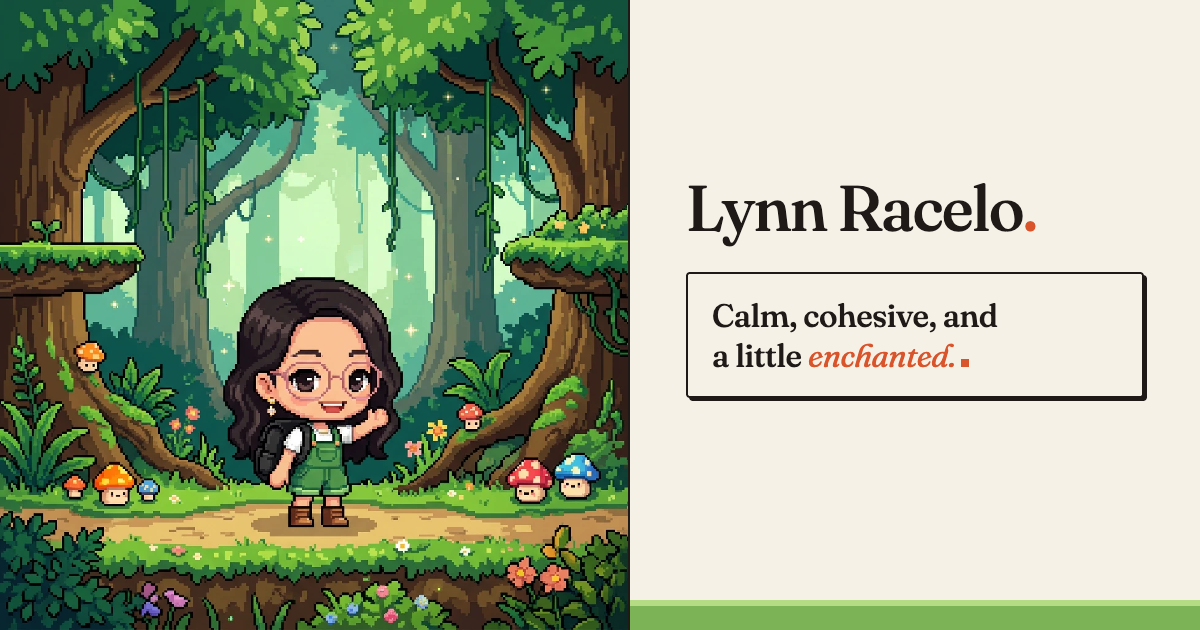
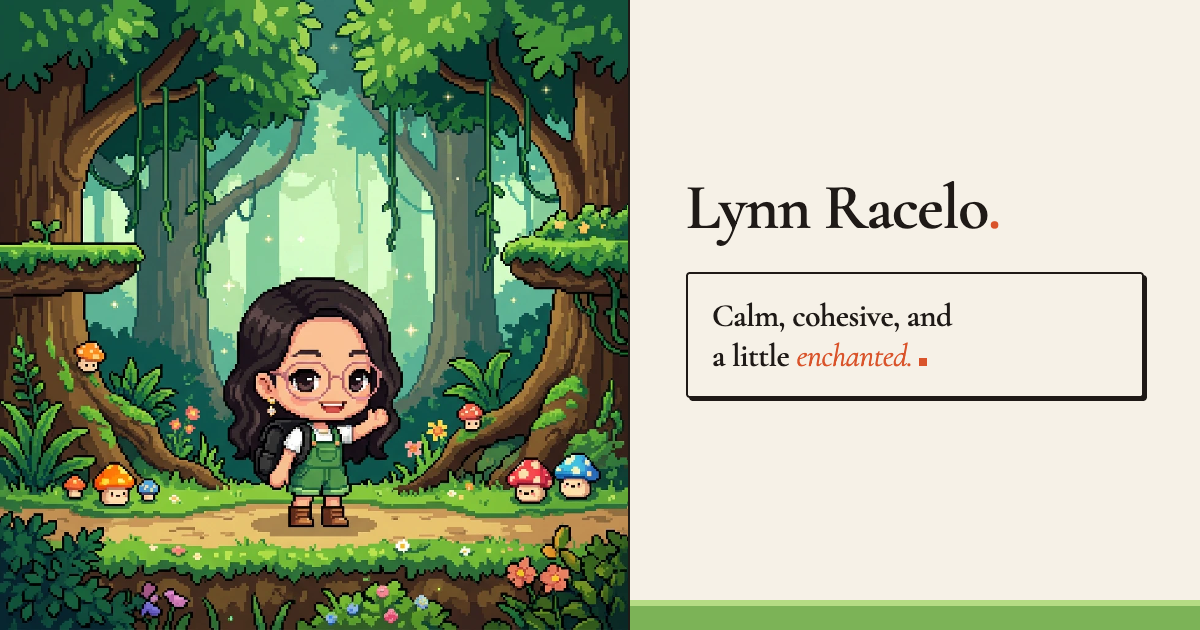
Serif is now Cormorant Garamond 600; homepage quote in three lines

Changed region(s): [[0.555, 0.2714, 0.8633, 0.3921], [0.5858, 0.4825, 0.8325, 0.6032]]

diff --git a/index.html b/index.html
@@ -2,8 +2,8 @@
 <html lang="en">
 <head>
 <style>
-@import url("https://fonts.googleapis.com/css2?family=Fraunces:ital,opsz,wght@0,9..144,400;0,9..144,500;1,9..144,400&family=Instrument+Sans:wght@400;500&family=JetBrains+Mono:wght@400;500;600&display=swap");
-:root{--paper:#f6f1e7;--paper-deep:#ece4d4;--line:#d8cfbf;--ink:#1f1a17;--ink-muted:#5c534c;--moss:#7cb357;--moss-ink:#3f7130;--forest-light:#2a5e43;--forest:#173f2e;--forest-deep:#11301f;--sprout:#b5dc84;--mist:#e3f2d6;--persimmon:#d9542b;--persimmon-ink:#a83c18;--sky:#74c3d9;--butter:#f2c94c;--on-moss:#1f1a17;--on-forest:#f6f1e7;--on-accent:#1f1a17;--shadow-pixel:3px 3px 0 #1f1a17;--space-2:8px;--space-4:16px;--space-6:24px;--space-12:48px;--radius-sm:4px;--radius-md:12px;--radius-pill:999px;--font-display:"Fraunces", Georgia, serif;--font-sans:"Instrument Sans", system-ui, sans-serif;--font-mono:"JetBrains Mono", ui-monospace, monospace;}:root[data-theme="dark"]{--paper:#101d17;--paper-deep:#17281f;--line:#2a3f33;--ink:#f1ecdf;--ink-muted:#a9bba9;--moss:#7fbf6a;--moss-ink:#9fd18a;--forest-light:#2f6248;--forest:#1d4232;--forest-deep:#152f23;--sprout:#a9d680;--mist:#1f3a2c;--persimmon:#ef7046;--persimmon-ink:#f59473;--sky:#7ccbe0;--butter:#f2c94c;--on-moss:#1f1a17;--on-forest:#f6f1e7;--on-accent:#1f1a17;--shadow-pixel:3px 3px 0 #050a07;color-scheme:dark;}
+@import url("https://fonts.googleapis.com/css2?family=Cormorant+Garamond:ital,wght@0,300..700;1,300..700&family=Instrument+Sans:wght@400;500&family=JetBrains+Mono:wght@400;500;600&display=swap");
+:root{--paper:#f6f1e7;--paper-deep:#ece4d4;--line:#d8cfbf;--ink:#1f1a17;--ink-muted:#5c534c;--moss:#7cb357;--moss-ink:#3f7130;--forest-light:#2a5e43;--forest:#173f2e;--forest-deep:#11301f;--sprout:#b5dc84;--mist:#e3f2d6;--persimmon:#d9542b;--persimmon-ink:#a83c18;--sky:#74c3d9;--butter:#f2c94c;--on-moss:#1f1a17;--on-forest:#f6f1e7;--on-accent:#1f1a17;--shadow-pixel:3px 3px 0 #1f1a17;--space-2:8px;--space-4:16px;--space-6:24px;--space-12:48px;--radius-sm:4px;--radius-md:12px;--radius-pill:999px;--font-display:"Cormorant Garamond", Georgia, serif;--font-sans:"Instrument Sans", system-ui, sans-serif;--font-mono:"JetBrains Mono", ui-monospace, monospace;}:root[data-theme="dark"]{--paper:#101d17;--paper-deep:#17281f;--line:#2a3f33;--ink:#f1ecdf;--ink-muted:#a9bba9;--moss:#7fbf6a;--moss-ink:#9fd18a;--forest-light:#2f6248;--forest:#1d4232;--forest-deep:#152f23;--sprout:#a9d680;--mist:#1f3a2c;--persimmon:#ef7046;--persimmon-ink:#f59473;--sky:#7ccbe0;--butter:#f2c94c;--on-moss:#1f1a17;--on-forest:#f6f1e7;--on-accent:#1f1a17;--shadow-pixel:3px 3px 0 #050a07;color-scheme:dark;}
 
 /* Lynn Racelo — component styles. Every value is a token from tokens.json. */
 
@@ -49,7 +49,7 @@ body { background: var(--paper); color: var(--ink); font-family: var(--font-sans
 .lr-card__media { aspect-ratio: 16 / 9; background: var(--mist); display: block; width: 100%; object-fit: cover; }
 .lr-card__body { display: flex; flex-direction: column; flex: 1; gap: var(--space-2); padding: var(--space-6); }
 .lr-card__eyebrow { font: 500 12px/16px var(--font-mono); letter-spacing: .08em; text-transform: uppercase; color: var(--ink-muted); }
-.lr-card__title { margin: 0; font: 500 28px/34px var(--font-display); color: var(--ink); }
+.lr-card__title { margin: 0; font: 600 28px/34px var(--font-display); color: var(--ink); }
 .lr-card__summary { margin: 0; font: 400 15px/24px var(--font-mono); color: var(--ink-muted); }
 .lr-card__tags { display: flex; flex-wrap: wrap; gap: var(--space-2); margin-top: auto; padding-top: var(--space-2); }
 .lr-card:hover .lr-card__title { text-decoration: underline; text-decoration-color: var(--persimmon); text-underline-offset: 6px; text-decoration-thickness: 2px; }
@@ -244,7 +244,7 @@ html.lr-motion .lr-reveal.done { clip-path: none; }
 .lr-card .ph i { position: absolute; display: block; border-radius: var(--radius-md); }
 .lr-feature__body { display: flex; flex-direction: column; gap: var(--space-4); padding: 40px; }
 .lr-feature__eyebrow { display: flex; gap: var(--space-2); align-items: center; flex-wrap: wrap; }
-.lr-feature__title { margin: 0; font: 500 40px/46px var(--font-display); letter-spacing: -.015em; color: var(--ink); }
+.lr-feature__title { margin: 0; font: 600 40px/46px var(--font-display); letter-spacing: -.015em; color: var(--ink); }
 .lr-feature__summary { margin: 0; font: 400 16px/26px var(--font-sans); color: var(--ink); }
 .lr-feature__list { list-style: none; margin: 0; padding: 0; display: grid; gap: 6px; font: 400 14px/22px var(--font-mono); color: var(--ink-muted); }
 .lr-feature__list li { display: flex; gap: 10px; }
@@ -562,7 +562,7 @@ html.lr-motion .lr-reveal.done { clip-path: none; }
   .pg .nav { display:flex; align-items:center; justify-content:space-between; padding:20px 64px; border-bottom:1px solid var(--line); }
   .pg .brand { display:flex; align-items:center; gap:12px; text-decoration:none; color:var(--ink); }
   .pg .brand img { width:40px; height:40px; object-fit:cover; image-rendering:pixelated; border:2px solid var(--ink); border-radius:var(--radius-sm); }
-  .pg .brand b { font:500 24px/1 var(--font-display); }
+  .pg .brand b { font:600 24px/1 var(--font-display); }
   .pg .brand b i { font-style:normal; color:var(--persimmon); }
   .pg .links { display:flex; align-items:center; gap:28px; font:500 14px/20px var(--font-mono); }
   .pg .links a { color:var(--ink); text-decoration:none; }
@@ -578,7 +578,7 @@ html.lr-motion .lr-reveal.done { clip-path: none; }
   .pg .facts li b { font-weight:600; min-width:8.5em; color:var(--butter); }
   .pg .foot { position:relative; margin-top:80px; background:var(--paper-deep); border-top:1px solid var(--line); overflow:hidden; }
   .pg .foot .in { padding-top:56px; padding-bottom:96px; display:flex; justify-content:space-between; align-items:center; gap:48px; }
-  .pg .foot h2 { margin:0 0 16px; font:500 48px/54px var(--font-display); letter-spacing:-.015em; color:var(--ink); }
+  .pg .foot h2 { margin:0 0 16px; font:600 48px/54px var(--font-display); letter-spacing:-.015em; color:var(--ink); }
   .pg .foot h2 i { font-style:normal; color:var(--persimmon); }
   .pg .foot .socials { display:flex; flex-direction:column; gap:10px; text-align:right; font:500 14px/20px var(--font-mono); }
   .pg .foot .socials a { color:var(--persimmon-ink); }
@@ -589,12 +589,12 @@ html.lr-motion .lr-reveal.done { clip-path: none; }
   .lb .banner { position:relative; height:600px; margin:32px 64px 0; }
   .lb .banner img { display:block; box-sizing:border-box; width:100%; height:100%; object-fit:cover; object-position:50% 64%; image-rendering:pixelated; border:1px solid var(--line); border-radius:var(--radius-md); }
   .lb .banner .lr-dialogue { position:absolute; right:49px; bottom:0; transform:translateY(50%); width:400px; max-width:none; box-sizing:border-box; padding:22px 24px 20px; }
-  .lb .banner h1 { margin:0 0 12px; font:500 36px/42px var(--font-display); letter-spacing:-.015em; }
+  .lb .banner h1 { margin:0 0 12px; font:600 36px/42px var(--font-display); letter-spacing:-.015em; }
   .lb .banner h1 em { font-style:italic; font-weight:400; color:var(--persimmon); }
   .lb .banner .lr-dialogue p { margin:0; font:400 15px/24px var(--font-mono); }
   .lb .ctas { display:flex; gap:16px; }
   .lb .sheet { margin:159px 64px 0; padding:48px; display:grid; grid-template-columns:1fr auto; gap:56px; align-items:center; }
-  .lb .sheet blockquote { margin:0 0 20px; font:italic 400 28px/38px var(--font-display); color:var(--on-forest); }
+  .lb .sheet blockquote { margin:0 0 20px; font:italic 600 28px/38px var(--font-display); color:var(--on-forest); }
   .lb .sheet .bio { margin:0 0 28px; max-width:36em; font:400 17px/28px var(--font-sans); color:var(--on-forest); }
   .lb .sheet .lr-btn--secondary { color:var(--on-forest); border-color:var(--on-forest); }
   .lb .sheet .lr-btn--secondary:hover { background:color-mix(in oklab, var(--on-forest), transparent 86%); }
@@ -625,7 +625,7 @@ html.lr-motion .lr-reveal.done { clip-path: none; }
     <div class="lr-dialogue"><h1>Calm, cohesive, and<br>a little <em>enchanted.</em></h1><p>Hi! Welcome to my corner of the forest. Have a look around.<span class="lr-dialogue__next" aria-hidden="true"></span></p></div>
   </section>
   <section class="sheet lr-forest" id="about">
-    <div><blockquote>“Growing up on cozy games and animations, I still believe design can inspire awe that feels like magic.”</blockquote>
+    <div><blockquote>“Growing up on cozy games and animations,<br>I still believe design can inspire awe that<br>feels like magic.”</blockquote>
       <p class="bio">Driven by a yearning to care for others, I pursued clinical nutrition and fitness. Now, I am pursuing my master's at UC Berkeley to learn the skills to build health technology that can empower others.</p>
       <div class="ctas"><a class="lr-btn lr-btn--primary" href="#projects"><svg class="lr-btn__spark" viewBox="0 0 7 7" aria-hidden="true"><use href="#px-sparkle"/></svg>See my projects</a><a class="lr-btn lr-btn--secondary" href="https://www.linkedin.com/in/lynn-racelo/">Get in touch</a></div></div>
     <ul class="facts">

diff --git a/case-study.html b/case-study.html
@@ -2,8 +2,8 @@
 <html lang="en">
 <head>
 <style>
-@import url("https://fonts.googleapis.com/css2?family=Fraunces:ital,opsz,wght@0,9..144,400;0,9..144,500;1,9..144,400&family=Instrument+Sans:wght@400;500&family=JetBrains+Mono:wght@400;500;600&display=swap");
-:root{--paper:#f6f1e7;--paper-deep:#ece4d4;--line:#d8cfbf;--ink:#1f1a17;--ink-muted:#5c534c;--moss:#7cb357;--moss-ink:#3f7130;--forest-light:#2a5e43;--forest:#173f2e;--forest-deep:#11301f;--sprout:#b5dc84;--mist:#e3f2d6;--persimmon:#d9542b;--persimmon-ink:#a83c18;--sky:#74c3d9;--butter:#f2c94c;--on-moss:#1f1a17;--on-forest:#f6f1e7;--on-accent:#1f1a17;--shadow-pixel:3px 3px 0 #1f1a17;--space-2:8px;--space-4:16px;--space-6:24px;--space-12:48px;--radius-sm:4px;--radius-md:12px;--radius-pill:999px;--font-display:"Fraunces", Georgia, serif;--font-sans:"Instrument Sans", system-ui, sans-serif;--font-mono:"JetBrains Mono", ui-monospace, monospace;}:root[data-theme="dark"]{--paper:#101d17;--paper-deep:#17281f;--line:#2a3f33;--ink:#f1ecdf;--ink-muted:#a9bba9;--moss:#7fbf6a;--moss-ink:#9fd18a;--forest-light:#2f6248;--forest:#1d4232;--forest-deep:#152f23;--sprout:#a9d680;--mist:#1f3a2c;--persimmon:#ef7046;--persimmon-ink:#f59473;--sky:#7ccbe0;--butter:#f2c94c;--on-moss:#1f1a17;--on-forest:#f6f1e7;--on-accent:#1f1a17;--shadow-pixel:3px 3px 0 #050a07;color-scheme:dark;}
+@import url("https://fonts.googleapis.com/css2?family=Cormorant+Garamond:ital,wght@0,300..700;1,300..700&family=Instrument+Sans:wght@400;500&family=JetBrains+Mono:wght@400;500;600&display=swap");
+:root{--paper:#f6f1e7;--paper-deep:#ece4d4;--line:#d8cfbf;--ink:#1f1a17;--ink-muted:#5c534c;--moss:#7cb357;--moss-ink:#3f7130;--forest-light:#2a5e43;--forest:#173f2e;--forest-deep:#11301f;--sprout:#b5dc84;--mist:#e3f2d6;--persimmon:#d9542b;--persimmon-ink:#a83c18;--sky:#74c3d9;--butter:#f2c94c;--on-moss:#1f1a17;--on-forest:#f6f1e7;--on-accent:#1f1a17;--shadow-pixel:3px 3px 0 #1f1a17;--space-2:8px;--space-4:16px;--space-6:24px;--space-12:48px;--radius-sm:4px;--radius-md:12px;--radius-pill:999px;--font-display:"Cormorant Garamond", Georgia, serif;--font-sans:"Instrument Sans", system-ui, sans-serif;--font-mono:"JetBrains Mono", ui-monospace, monospace;}:root[data-theme="dark"]{--paper:#101d17;--paper-deep:#17281f;--line:#2a3f33;--ink:#f1ecdf;--ink-muted:#a9bba9;--moss:#7fbf6a;--moss-ink:#9fd18a;--forest-light:#2f6248;--forest:#1d4232;--forest-deep:#152f23;--sprout:#a9d680;--mist:#1f3a2c;--persimmon:#ef7046;--persimmon-ink:#f59473;--sky:#7ccbe0;--butter:#f2c94c;--on-moss:#1f1a17;--on-forest:#f6f1e7;--on-accent:#1f1a17;--shadow-pixel:3px 3px 0 #050a07;color-scheme:dark;}
 
 /* Lynn Racelo — component styles. Every value is a token from tokens.json. */
 
@@ -49,7 +49,7 @@ body { background: var(--paper); color: var(--ink); font-family: var(--font-sans
 .lr-card__media { aspect-ratio: 16 / 9; background: var(--mist); display: block; width: 100%; object-fit: cover; }
 .lr-card__body { display: flex; flex-direction: column; flex: 1; gap: var(--space-2); padding: var(--space-6); }
 .lr-card__eyebrow { font: 500 12px/16px var(--font-mono); letter-spacing: .08em; text-transform: uppercase; color: var(--ink-muted); }
-.lr-card__title { margin: 0; font: 500 28px/34px var(--font-display); color: var(--ink); }
+.lr-card__title { margin: 0; font: 600 28px/34px var(--font-display); color: var(--ink); }
 .lr-card__summary { margin: 0; font: 400 15px/24px var(--font-mono); color: var(--ink-muted); }
 .lr-card__tags { display: flex; flex-wrap: wrap; gap: var(--space-2); margin-top: auto; padding-top: var(--space-2); }
 .lr-card:hover .lr-card__title { text-decoration: underline; text-decoration-color: var(--persimmon); text-underline-offset: 6px; text-decoration-thickness: 2px; }
@@ -244,7 +244,7 @@ html.lr-motion .lr-reveal.done { clip-path: none; }
 .lr-card .ph i { position: absolute; display: block; border-radius: var(--radius-md); }
 .lr-feature__body { display: flex; flex-direction: column; gap: var(--space-4); padding: 40px; }
 .lr-feature__eyebrow { display: flex; gap: var(--space-2); align-items: center; flex-wrap: wrap; }
-.lr-feature__title { margin: 0; font: 500 40px/46px var(--font-display); letter-spacing: -.015em; color: var(--ink); }
+.lr-feature__title { margin: 0; font: 600 40px/46px var(--font-display); letter-spacing: -.015em; color: var(--ink); }
 .lr-feature__summary { margin: 0; font: 400 16px/26px var(--font-sans); color: var(--ink); }
 .lr-feature__list { list-style: none; margin: 0; padding: 0; display: grid; gap: 6px; font: 400 14px/22px var(--font-mono); color: var(--ink-muted); }
 .lr-feature__list li { display: flex; gap: 10px; }
@@ -561,7 +561,7 @@ html.lr-motion .lr-reveal.done { clip-path: none; }
   .pg .nav { display:flex; align-items:center; justify-content:space-between; padding:20px 64px; border-bottom:1px solid var(--line); }
   .pg .brand { display:flex; align-items:center; gap:12px; text-decoration:none; color:var(--ink); }
   .pg .brand img { width:40px; height:40px; object-fit:cover; image-rendering:pixelated; border:2px solid var(--ink); border-radius:var(--radius-sm); }
-  .pg .brand b { font:500 24px/1 var(--font-display); }
+  .pg .brand b { font:600 24px/1 var(--font-display); }
   .pg .brand b i { font-style:normal; color:var(--persimmon); }
   .pg .links { display:flex; align-items:center; gap:28px; font:500 14px/20px var(--font-mono); }
   .pg .links a { color:var(--ink); text-decoration:none; }
@@ -577,7 +577,7 @@ html.lr-motion .lr-reveal.done { clip-path: none; }
   .pg .facts li b { font-weight:600; min-width:8.5em; color:var(--butter); }
   .pg .foot { position:relative; margin-top:80px; background:var(--paper-deep); border-top:1px solid var(--line); overflow:hidden; }
   .pg .foot .in { padding-top:64px; padding-bottom:104px; display:flex; justify-content:space-between; align-items:flex-end; gap:48px; }
-  .pg .foot h2 { margin:0 0 16px; font:500 48px/54px var(--font-display); letter-spacing:-.015em; color:var(--ink); }
+  .pg .foot h2 { margin:0 0 16px; font:600 48px/54px var(--font-display); letter-spacing:-.015em; color:var(--ink); }
   .pg .foot h2 i { font-style:normal; color:var(--persimmon); }
   .pg .foot .socials { display:flex; flex-direction:column; gap:10px; text-align:right; font:500 14px/20px var(--font-mono); }
   .pg .foot .socials a { color:var(--persimmon-ink); }
@@ -598,7 +598,7 @@ html.lr-motion .lr-reveal.done { clip-path: none; }
   .pa-E { fill:var(--on-accent); }
   .pa-K { fill:var(--on-accent); }
   .cs .hero .ground { position:absolute; left:0; right:0; bottom:0; height:16px; background:var(--sprout); border-top:4px solid var(--moss); }
-  .cs .hero h1 { margin:0; font:500 64px/70px var(--font-display); letter-spacing:-.02em; white-space:nowrap; }
+  .cs .hero h1 { margin:0; font:600 64px/70px var(--font-display); letter-spacing:-.02em; white-space:nowrap; }
   .cs h1 em, .cs h2 em { font-style:normal; color:var(--persimmon); }
   /* project, role and goal as a game-style dialog under the headline, exactly as wide as the headline text (like the homepage dialog) */
   .cs .hd .hdlg { margin-top:24px; width:0; min-width:100%; max-width:none; box-sizing:border-box; padding:18px 24px 20px; font:400 16px/26px var(--font-mono); }
@@ -666,7 +666,7 @@ html.lr-motion .lr-reveal.done { clip-path: none; }
 
   /* team map */
   .cs .part { padding-top:40px; }
-  .cs .part h2 { margin:0 0 28px; font:500 40px/48px var(--font-display); letter-spacing:-.015em; white-space:nowrap; }
+  .cs .part h2 { margin:0 0 28px; font:600 40px/48px var(--font-display); letter-spacing:-.015em; white-space:nowrap; }
   .cs .map { background:var(--paper-deep); border:1px solid var(--line); border-radius:var(--radius-md); overflow:hidden; box-shadow:var(--shadow-soft); }   /* beige panel: line outline + soft shadow, like the Legacy card */
   .cs .map svg { display:block; width:100%; height:auto; }
   .cs .map text { font:400 15px var(--font-sans); fill:var(--ink); }
@@ -691,7 +691,7 @@ html.lr-motion .lr-reveal.done { clip-path: none; }
   .cs .impact h2 em { font-style:normal; color:var(--persimmon); }
   .cs .lessons { margin-top:8px; border-top:1px solid var(--line); }
   .cs .lessons > div { display:grid; grid-template-columns:340px 1fr; gap:40px; align-items:baseline; padding:20px 0; border-bottom:1px solid var(--line); }
-  .cs .lessons b { font:500 28px/34px var(--font-display); }
+  .cs .lessons b { font:600 28px/34px var(--font-display); }
   .cs .lessons p { margin:0; font:400 17px/28px var(--font-sans); }
   /* Night: the soft shadow is mixed from ink, which turns cream at night, so pin it to the night shadow color */
   [data-theme="dark"] .cs { --shadow-soft:3px 3px 0 color-mix(in oklab, #050a07, transparent 30%); }

diff --git a/coming-soon.html b/coming-soon.html
@@ -2,8 +2,8 @@
 <html lang="en">
 <head>
 <style>
-@import url("https://fonts.googleapis.com/css2?family=Fraunces:ital,opsz,wght@0,9..144,400;0,9..144,500;1,9..144,400&family=Instrument+Sans:wght@400;500&family=JetBrains+Mono:wght@400;500;600&display=swap");
-:root{--paper:#f6f1e7;--paper-deep:#ece4d4;--line:#d8cfbf;--ink:#1f1a17;--ink-muted:#5c534c;--moss:#7cb357;--moss-ink:#3f7130;--forest-light:#2a5e43;--forest:#173f2e;--forest-deep:#11301f;--sprout:#b5dc84;--mist:#e3f2d6;--persimmon:#d9542b;--persimmon-ink:#a83c18;--sky:#74c3d9;--butter:#f2c94c;--on-moss:#1f1a17;--on-forest:#f6f1e7;--on-accent:#1f1a17;--shadow-pixel:3px 3px 0 #1f1a17;--space-2:8px;--space-4:16px;--space-6:24px;--space-12:48px;--radius-sm:4px;--radius-md:12px;--radius-pill:999px;--font-display:"Fraunces", Georgia, serif;--font-sans:"Instrument Sans", system-ui, sans-serif;--font-mono:"JetBrains Mono", ui-monospace, monospace;}:root[data-theme="dark"]{--paper:#101d17;--paper-deep:#17281f;--line:#2a3f33;--ink:#f1ecdf;--ink-muted:#a9bba9;--moss:#7fbf6a;--moss-ink:#9fd18a;--forest-light:#2f6248;--forest:#1d4232;--forest-deep:#152f23;--sprout:#a9d680;--mist:#1f3a2c;--persimmon:#ef7046;--persimmon-ink:#f59473;--sky:#7ccbe0;--butter:#f2c94c;--on-moss:#1f1a17;--on-forest:#f6f1e7;--on-accent:#1f1a17;--shadow-pixel:3px 3px 0 #050a07;color-scheme:dark;}
+@import url("https://fonts.googleapis.com/css2?family=Cormorant+Garamond:ital,wght@0,300..700;1,300..700&family=Instrument+Sans:wght@400;500&family=JetBrains+Mono:wght@400;500;600&display=swap");
+:root{--paper:#f6f1e7;--paper-deep:#ece4d4;--line:#d8cfbf;--ink:#1f1a17;--ink-muted:#5c534c;--moss:#7cb357;--moss-ink:#3f7130;--forest-light:#2a5e43;--forest:#173f2e;--forest-deep:#11301f;--sprout:#b5dc84;--mist:#e3f2d6;--persimmon:#d9542b;--persimmon-ink:#a83c18;--sky:#74c3d9;--butter:#f2c94c;--on-moss:#1f1a17;--on-forest:#f6f1e7;--on-accent:#1f1a17;--shadow-pixel:3px 3px 0 #1f1a17;--space-2:8px;--space-4:16px;--space-6:24px;--space-12:48px;--radius-sm:4px;--radius-md:12px;--radius-pill:999px;--font-display:"Cormorant Garamond", Georgia, serif;--font-sans:"Instrument Sans", system-ui, sans-serif;--font-mono:"JetBrains Mono", ui-monospace, monospace;}:root[data-theme="dark"]{--paper:#101d17;--paper-deep:#17281f;--line:#2a3f33;--ink:#f1ecdf;--ink-muted:#a9bba9;--moss:#7fbf6a;--moss-ink:#9fd18a;--forest-light:#2f6248;--forest:#1d4232;--forest-deep:#152f23;--sprout:#a9d680;--mist:#1f3a2c;--persimmon:#ef7046;--persimmon-ink:#f59473;--sky:#7ccbe0;--butter:#f2c94c;--on-moss:#1f1a17;--on-forest:#f6f1e7;--on-accent:#1f1a17;--shadow-pixel:3px 3px 0 #050a07;color-scheme:dark;}
 
 /* Lynn Racelo — component styles. Every value is a token from tokens.json. */
 
@@ -49,7 +49,7 @@ body { background: var(--paper); color: var(--ink); font-family: var(--font-sans
 .lr-card__media { aspect-ratio: 16 / 9; background: var(--mist); display: block; width: 100%; object-fit: cover; }
 .lr-card__body { display: flex; flex-direction: column; flex: 1; gap: var(--space-2); padding: var(--space-6); }
 .lr-card__eyebrow { font: 500 12px/16px var(--font-mono); letter-spacing: .08em; text-transform: uppercase; color: var(--ink-muted); }
-.lr-card__title { margin: 0; font: 500 28px/34px var(--font-display); color: var(--ink); }
+.lr-card__title { margin: 0; font: 600 28px/34px var(--font-display); color: var(--ink); }
 .lr-card__summary { margin: 0; font: 400 15px/24px var(--font-mono); color: var(--ink-muted); }
 .lr-card__tags { display: flex; flex-wrap: wrap; gap: var(--space-2); margin-top: auto; padding-top: var(--space-2); }
 .lr-card:hover .lr-card__title { text-decoration: underline; text-decoration-color: var(--persimmon); text-underline-offset: 6px; text-decoration-thickness: 2px; }
@@ -244,7 +244,7 @@ html.lr-motion .lr-reveal.done { clip-path: none; }
 .lr-card .ph i { position: absolute; display: block; border-radius: var(--radius-md); }
 .lr-feature__body { display: flex; flex-direction: column; gap: var(--space-4); padding: 40px; }
 .lr-feature__eyebrow { display: flex; gap: var(--space-2); align-items: center; flex-wrap: wrap; }
-.lr-feature__title { margin: 0; font: 500 40px/46px var(--font-display); letter-spacing: -.015em; color: var(--ink); }
+.lr-feature__title { margin: 0; font: 600 40px/46px var(--font-display); letter-spacing: -.015em; color: var(--ink); }
 .lr-feature__summary { margin: 0; font: 400 16px/26px var(--font-sans); color: var(--ink); }
 .lr-feature__list { list-style: none; margin: 0; padding: 0; display: grid; gap: 6px; font: 400 14px/22px var(--font-mono); color: var(--ink-muted); }
 .lr-feature__list li { display: flex; gap: 10px; }
@@ -559,7 +559,7 @@ html.lr-motion .lr-reveal.done { clip-path: none; }
   .pg .nav { display:flex; align-items:center; justify-content:space-between; padding:20px 64px; border-bottom:1px solid var(--line); }
   .pg .brand { display:flex; align-items:center; gap:12px; text-decoration:none; color:var(--ink); }
   .pg .brand img { width:40px; height:40px; object-fit:cover; image-rendering:pixelated; border:2px solid var(--ink); border-radius:var(--radius-sm); }
-  .pg .brand b { font:500 24px/1 var(--font-display); }
+  .pg .brand b { font:600 24px/1 var(--font-display); }
   .pg .brand b i { font-style:normal; color:var(--persimmon); }
   .pg .links { display:flex; align-items:center; gap:28px; font:500 14px/20px var(--font-mono); }
   .pg .links a { color:var(--ink); text-decoration:none; }

diff --git a/resume.html b/resume.html
@@ -2,8 +2,8 @@
 <html lang="en">
 <head>
 <style>
-@import url("https://fonts.googleapis.com/css2?family=Fraunces:ital,opsz,wght@0,9..144,400;0,9..144,500;1,9..144,400&family=Instrument+Sans:wght@400;500&family=JetBrains+Mono:wght@400;500;600&display=swap");
-:root{--paper:#f6f1e7;--paper-deep:#ece4d4;--line:#d8cfbf;--ink:#1f1a17;--ink-muted:#5c534c;--moss:#7cb357;--moss-ink:#3f7130;--forest-light:#2a5e43;--forest:#173f2e;--forest-deep:#11301f;--sprout:#b5dc84;--mist:#e3f2d6;--persimmon:#d9542b;--persimmon-ink:#a83c18;--sky:#74c3d9;--butter:#f2c94c;--on-moss:#1f1a17;--on-forest:#f6f1e7;--on-accent:#1f1a17;--shadow-pixel:3px 3px 0 #1f1a17;--space-2:8px;--space-4:16px;--space-6:24px;--space-12:48px;--radius-sm:4px;--radius-md:12px;--radius-pill:999px;--font-display:"Fraunces", Georgia, serif;--font-sans:"Instrument Sans", system-ui, sans-serif;--font-mono:"JetBrains Mono", ui-monospace, monospace;}:root[data-theme="dark"]{--paper:#101d17;--paper-deep:#17281f;--line:#2a3f33;--ink:#f1ecdf;--ink-muted:#a9bba9;--moss:#7fbf6a;--moss-ink:#9fd18a;--forest-light:#2f6248;--forest:#1d4232;--forest-deep:#152f23;--sprout:#a9d680;--mist:#1f3a2c;--persimmon:#ef7046;--persimmon-ink:#f59473;--sky:#7ccbe0;--butter:#f2c94c;--on-moss:#1f1a17;--on-forest:#f6f1e7;--on-accent:#1f1a17;--shadow-pixel:3px 3px 0 #050a07;color-scheme:dark;}
+@import url("https://fonts.googleapis.com/css2?family=Cormorant+Garamond:ital,wght@0,300..700;1,300..700&family=Instrument+Sans:wght@400;500&family=JetBrains+Mono:wght@400;500;600&display=swap");
+:root{--paper:#f6f1e7;--paper-deep:#ece4d4;--line:#d8cfbf;--ink:#1f1a17;--ink-muted:#5c534c;--moss:#7cb357;--moss-ink:#3f7130;--forest-light:#2a5e43;--forest:#173f2e;--forest-deep:#11301f;--sprout:#b5dc84;--mist:#e3f2d6;--persimmon:#d9542b;--persimmon-ink:#a83c18;--sky:#74c3d9;--butter:#f2c94c;--on-moss:#1f1a17;--on-forest:#f6f1e7;--on-accent:#1f1a17;--shadow-pixel:3px 3px 0 #1f1a17;--space-2:8px;--space-4:16px;--space-6:24px;--space-12:48px;--radius-sm:4px;--radius-md:12px;--radius-pill:999px;--font-display:"Cormorant Garamond", Georgia, serif;--font-sans:"Instrument Sans", system-ui, sans-serif;--font-mono:"JetBrains Mono", ui-monospace, monospace;}:root[data-theme="dark"]{--paper:#101d17;--paper-deep:#17281f;--line:#2a3f33;--ink:#f1ecdf;--ink-muted:#a9bba9;--moss:#7fbf6a;--moss-ink:#9fd18a;--forest-light:#2f6248;--forest:#1d4232;--forest-deep:#152f23;--sprout:#a9d680;--mist:#1f3a2c;--persimmon:#ef7046;--persimmon-ink:#f59473;--sky:#7ccbe0;--butter:#f2c94c;--on-moss:#1f1a17;--on-forest:#f6f1e7;--on-accent:#1f1a17;--shadow-pixel:3px 3px 0 #050a07;color-scheme:dark;}
 
 /* Lynn Racelo — component styles. Every value is a token from tokens.json. */
 
@@ -49,7 +49,7 @@ body { background: var(--paper); color: var(--ink); font-family: var(--font-sans
 .lr-card__media { aspect-ratio: 16 / 9; background: var(--mist); display: block; width: 100%; object-fit: cover; }
 .lr-card__body { display: flex; flex-direction: column; flex: 1; gap: var(--space-2); padding: var(--space-6); }
 .lr-card__eyebrow { font: 500 12px/16px var(--font-mono); letter-spacing: .08em; text-transform: uppercase; color: var(--ink-muted); }
-.lr-card__title { margin: 0; font: 500 28px/34px var(--font-display); color: var(--ink); }
+.lr-card__title { margin: 0; font: 600 28px/34px var(--font-display); color: var(--ink); }
 .lr-card__summary { margin: 0; font: 400 15px/24px var(--font-mono); color: var(--ink-muted); }
 .lr-card__tags { display: flex; flex-wrap: wrap; gap: var(--space-2); margin-top: auto; padding-top: var(--space-2); }
 .lr-card:hover .lr-card__title { text-decoration: underline; text-decoration-color: var(--persimmon); text-underline-offset: 6px; text-decoration-thickness: 2px; }
@@ -244,7 +244,7 @@ html.lr-motion .lr-reveal.done { clip-path: none; }
 .lr-card .ph i { position: absolute; display: block; border-radius: var(--radius-md); }
 .lr-feature__body { display: flex; flex-direction: column; gap: var(--space-4); padding: 40px; }
 .lr-feature__eyebrow { display: flex; gap: var(--space-2); align-items: center; flex-wrap: wrap; }
-.lr-feature__title { margin: 0; font: 500 40px/46px var(--font-display); letter-spacing: -.015em; color: var(--ink); }
+.lr-feature__title { margin: 0; font: 600 40px/46px var(--font-display); letter-spacing: -.015em; color: var(--ink); }
 .lr-feature__summary { margin: 0; font: 400 16px/26px var(--font-sans); color: var(--ink); }
 .lr-feature__list { list-style: none; margin: 0; padding: 0; display: grid; gap: 6px; font: 400 14px/22px var(--font-mono); color: var(--ink-muted); }
 .lr-feature__list li { display: flex; gap: 10px; }
@@ -559,7 +559,7 @@ html.lr-motion .lr-reveal.done { clip-path: none; }
   .pg .nav { display:flex; align-items:center; justify-content:space-between; padding:20px 64px; border-bottom:1px solid var(--line); }
   .pg .brand { display:flex; align-items:center; gap:12px; text-decoration:none; color:var(--ink); }
   .pg .brand img { width:40px; height:40px; object-fit:cover; image-rendering:pixelated; border:2px solid var(--ink); border-radius:var(--radius-sm); }
-  .pg .brand b { font:500 24px/1 var(--font-display); }
+  .pg .brand b { font:600 24px/1 var(--font-display); }
   .pg .brand b i { font-style:normal; color:var(--persimmon); }
   .pg .links { display:flex; align-items:center; gap:28px; font:500 14px/20px var(--font-mono); }
   .pg .links a { color:var(--ink); text-decoration:none; }
